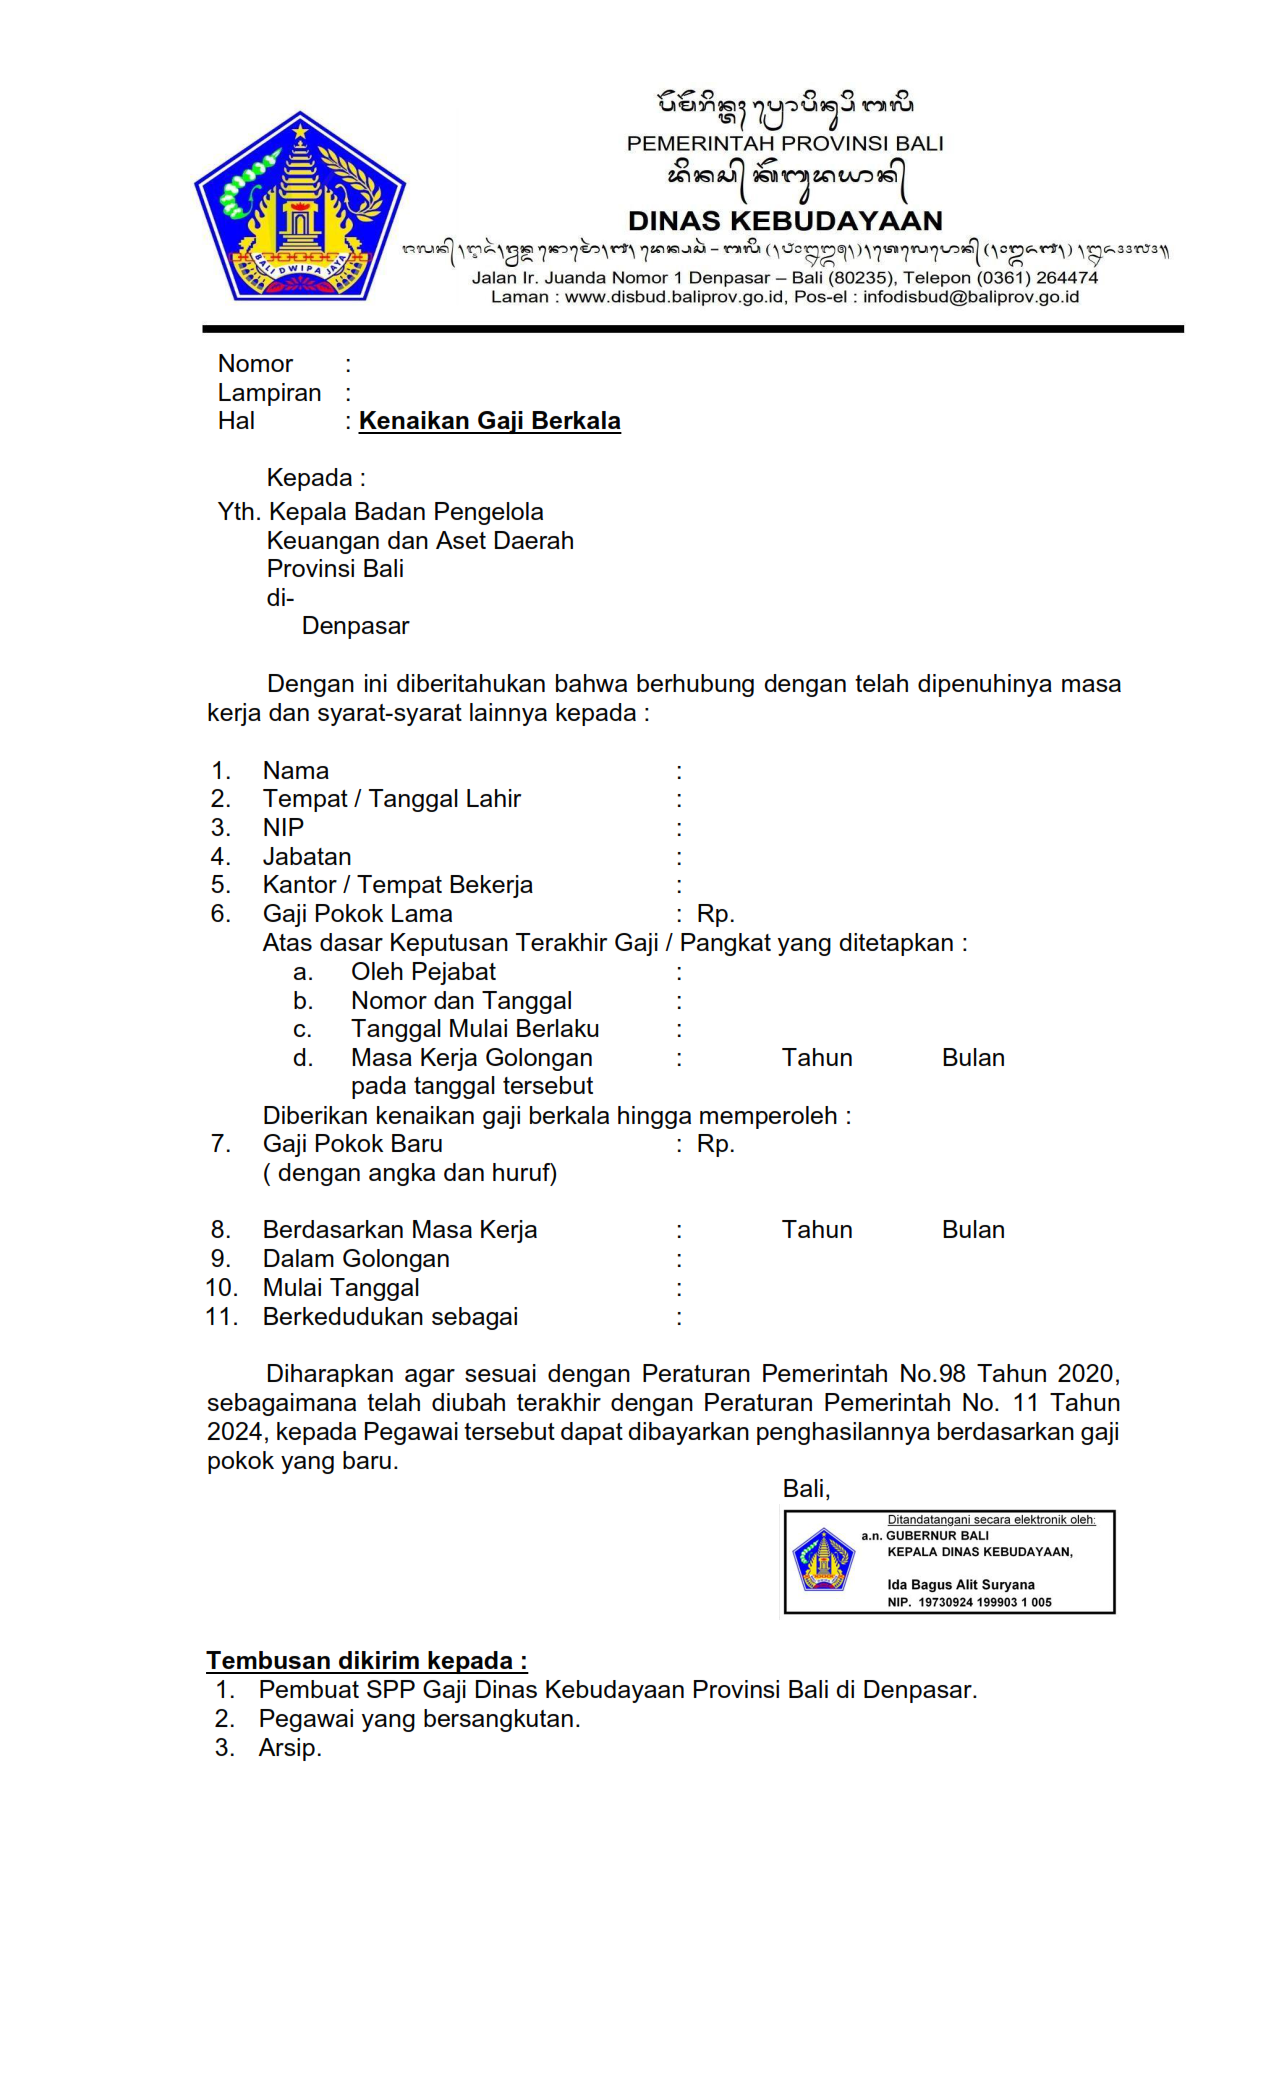
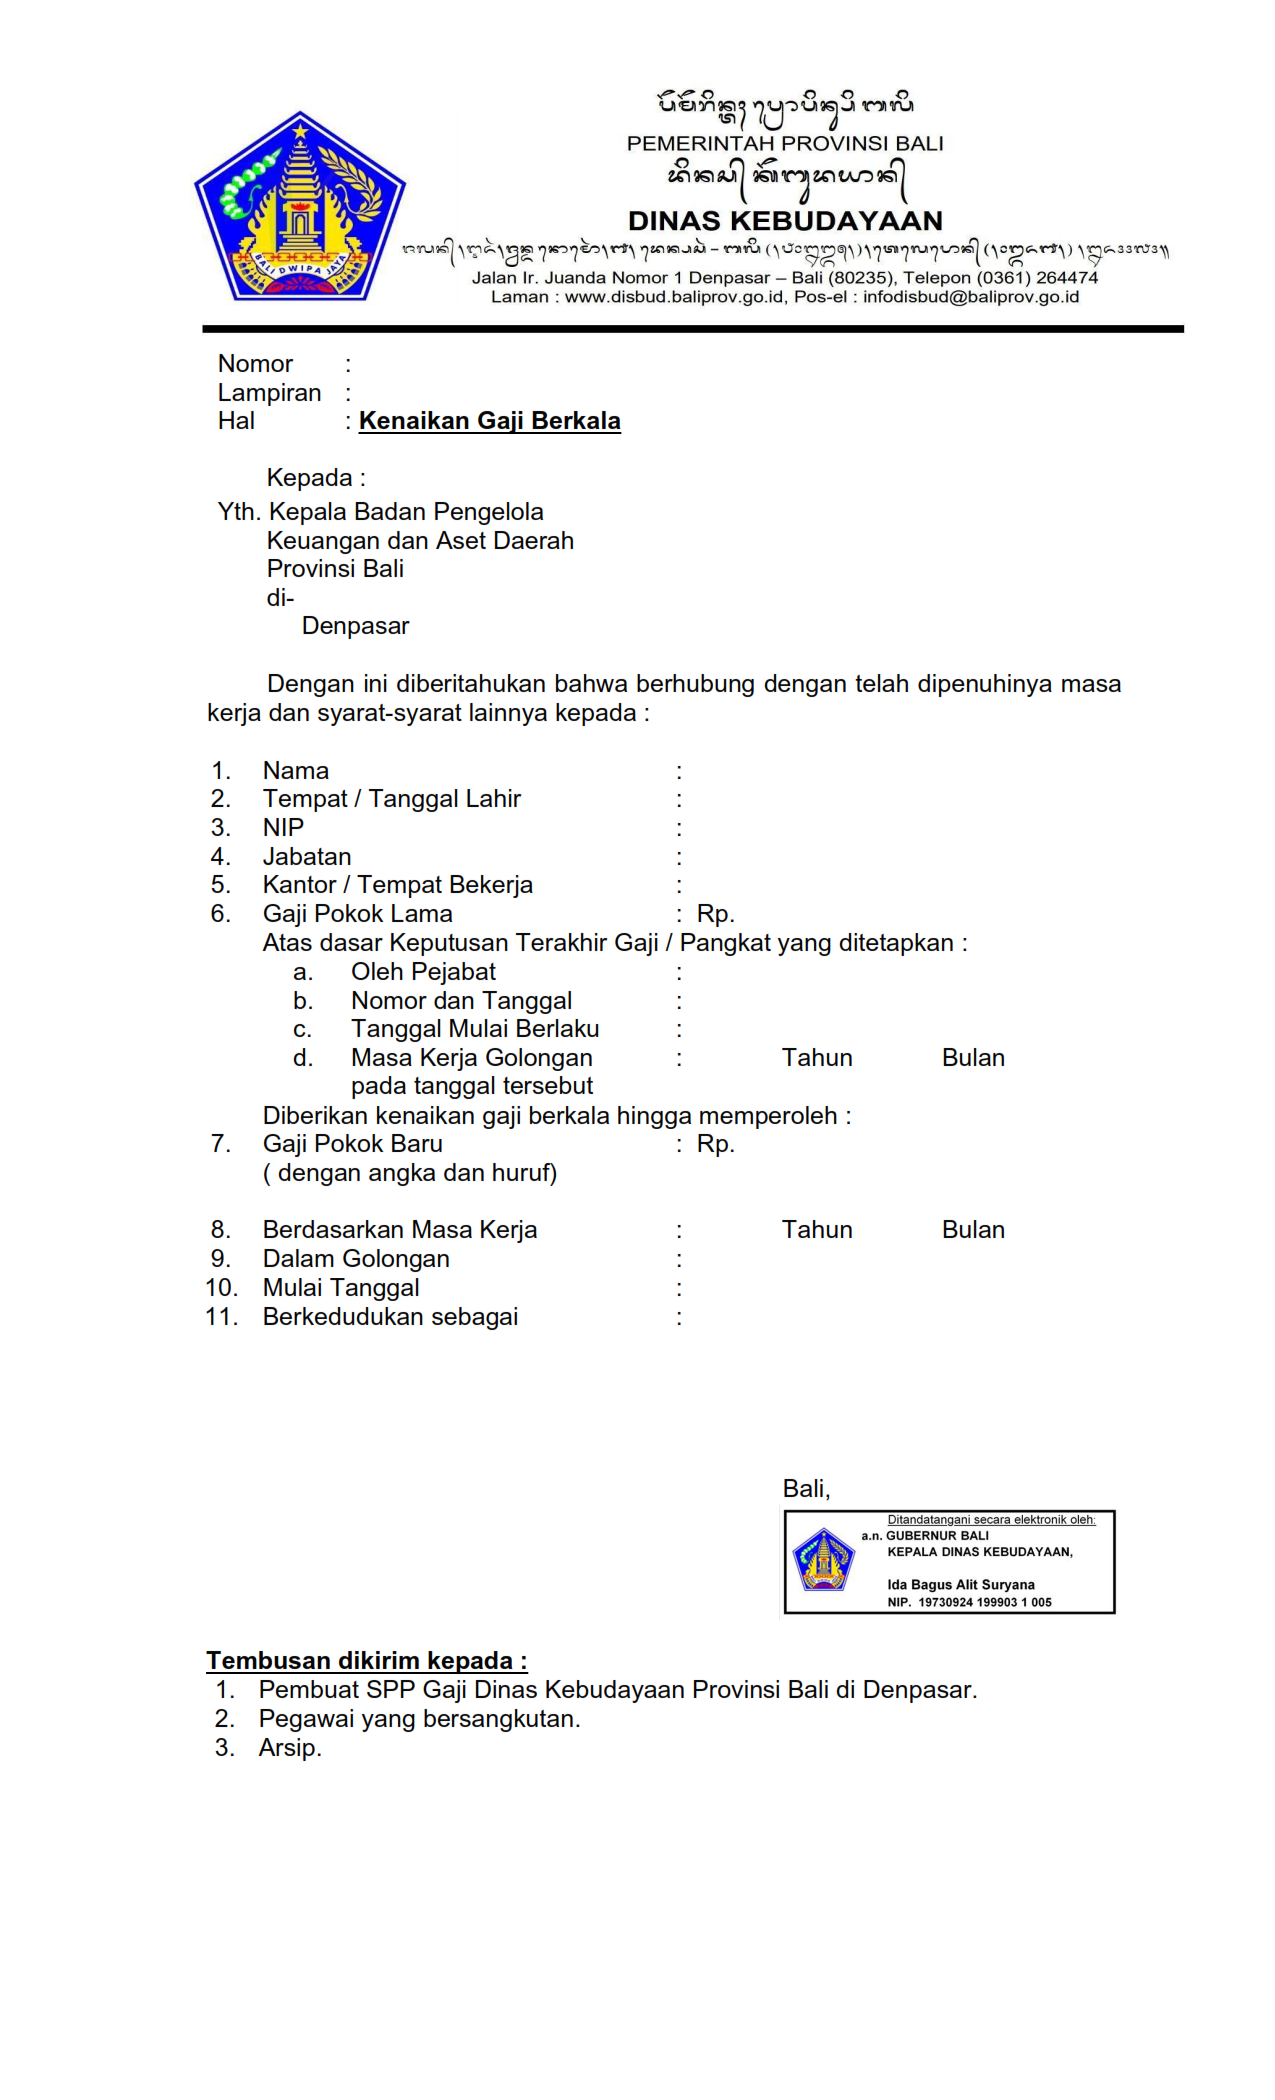
PDF

Changed region(s): [[0.1529, 0.65, 0.8871, 0.7119]]

diff --git a/resources/views/dashboard/kepegawaian/kgb/pdf-all.blade.php b/resources/views/dashboard/kepegawaian/kgb/pdf-all.blade.php
@@ -209,7 +209,7 @@
         .terbilang {
             left: 117.5mm;
             top: 187.6mm;
-            width: 90mm;
+            width: 80mm;
             white-space: normal;
             line-height: 1.05;
         }
@@ -253,6 +253,21 @@
         .berkedudukan {
             left: 117.5mm;
             top: 210.7mm;
+        }
+
+        /* =========================================================
+           PENUTUPAN
+        ========================================================= */
+
+        .penutupan {
+            left: 35mm;
+            top: 215.5mm;
+            width: 157mm;
+            white-space: normal;
+            line-height: 1.15;
+
+            text-align: justify;
+            text-indent: 10mm;
         }
 
         /* =========================================================
@@ -749,6 +764,14 @@
 
             /*
             |--------------------------------------------------------------------------
+            | PENUTUPAN
+            |--------------------------------------------------------------------------
+            */
+
+            $penutupan = trim((string) ($batch->peraturanGaji->peraturan_gaji_nomor ?? ''));
+
+            /*
+            |--------------------------------------------------------------------------
             | TERBILANG
             |--------------------------------------------------------------------------
             */
@@ -1164,6 +1187,17 @@
             @if ($berkedudukan !== '')
                 <div class="field berkedudukan">
                     {{ $berkedudukan }}
+                </div>
+            @endif
+
+            {{-- =====================================================
+                 PENUTUPAN
+            ====================================================== --}}
+
+            @if ($penutupan !== '')
+                <div class="field penutupan">
+                    Diharapkan agar sesuai dengan {{ $penutupan }},
+                    kepada Pegawai tersebut dapat dibayarkan penghasilannya berdasarkan gaji pokok yang baru.
                 </div>
             @endif
 

diff --git a/resources/views/dashboard/kepegawaian/kgb/pdf-all_tte.blade.php b/resources/views/dashboard/kepegawaian/kgb/pdf-all_tte.blade.php
@@ -208,7 +208,7 @@
             left: 117.5mm;
             top: 181.8mm;
             white-space: normal;
-            width: 90mm;
+            width: 80mm;
             line-height: 1.05;
         }
 
@@ -251,6 +251,21 @@
         .berkedudukan {
             left: 117.5mm;
             top: 204.7mm;
+        }
+
+        /* =========================================================
+           PENUTUPAN
+        ========================================================= */
+
+        .penutupan {
+            left: 34mm;
+            top: 210.5mm;
+            width: 157mm;
+            white-space: normal;
+            line-height: 1.15;
+
+            text-align: justify;
+            text-indent: 10mm;
         }
     </style>
 </head>
@@ -776,6 +791,14 @@
 
             /*
             |--------------------------------------------------------------------------
+            | PENUTUPAN
+            |--------------------------------------------------------------------------
+            */
+
+            $penutupan = trim((string) ($kgb->batch?->peraturanGaji?->peraturan_gaji_nomor ?? ''));
+
+            /*
+            |--------------------------------------------------------------------------
             | TERBILANG
             |--------------------------------------------------------------------------
             */
@@ -1175,6 +1198,17 @@
             @if ($berkedudukan !== '')
                 <div class="field berkedudukan">
                     {{ $berkedudukan }}
+                </div>
+            @endif
+
+            {{-- =====================================================
+                 PENUTUPAN
+            ====================================================== --}}
+
+            @if ($penutupan !== '')
+                <div class="field penutupan">
+                    Diharapkan agar sesuai dengan {{ $penutupan }},
+                    kepada Pegawai tersebut dapat dibayarkan penghasilannya berdasarkan gaji pokok yang baru.
                 </div>
             @endif
 

diff --git a/resources/views/dashboard/kepegawaian/kgb/pdf.blade.php b/resources/views/dashboard/kepegawaian/kgb/pdf.blade.php
@@ -216,7 +216,7 @@
             left: 117.5mm;
             top: 187.6mm;
             white-space: normal;
-            width: 90mm;
+            width: 80mm;
             line-height: 1.05;
         }
 
@@ -259,6 +259,21 @@
         .berkedudukan {
             left: 117.5mm;
             top: 210.7mm;
+        }
+
+        /* =========================================================
+           PENUTUPAN
+        ========================================================= */
+
+        .penutupan {
+            left: 35mm;
+            top: 215.5mm;
+            width: 157mm;
+            white-space: normal;
+            line-height: 1.15;
+
+            text-align: justify;
+            text-indent: 10mm;
         }
 
         /* =========================================================
@@ -843,6 +858,14 @@
         }
 
         /*
+            |--------------------------------------------------------------------------
+            | PENUTUPAN
+            |--------------------------------------------------------------------------
+            */
+
+        $penutupan = trim((string) ($batch->peraturanGaji->peraturan_gaji_nomor ?? ''));
+
+        /*
         |--------------------------------------------------------------------------
         | TERBILANG
         |--------------------------------------------------------------------------
@@ -1264,6 +1287,17 @@
         @if ($berkedudukan !== '')
             <div class="field berkedudukan">
                 {{ $berkedudukan }}
+            </div>
+        @endif
+
+        {{-- =====================================================
+                 PENUTUPAN
+            ====================================================== --}}
+
+        @if ($penutupan !== '')
+            <div class="field penutupan">
+                Diharapkan agar sesuai dengan {{ $penutupan }},
+                kepada Pegawai tersebut dapat dibayarkan penghasilannya berdasarkan gaji pokok yang baru.
             </div>
         @endif
 

diff --git a/resources/views/dashboard/kepegawaian/kgb/pdf_tte.blade.php b/resources/views/dashboard/kepegawaian/kgb/pdf_tte.blade.php
@@ -216,7 +216,7 @@
             left: 117.5mm;
             top: 181.8mm;
             white-space: normal;
-            width: 90mm;
+            width: 80mm;
             line-height: 1.05;
         }
 
@@ -259,6 +259,21 @@
         .berkedudukan {
             left: 117.5mm;
             top: 204.7mm;
+        }
+
+        /* =========================================================
+           PENUTUPAN
+        ========================================================= */
+
+        .penutupan {
+            left: 34mm;
+            top: 210.5mm;
+            width: 157mm;
+            white-space: normal;
+            line-height: 1.15;
+
+            text-align: justify;
+            text-indent: 10mm;
         }
     </style>
 </head>
@@ -815,6 +830,14 @@
         }
 
         /*
+            |--------------------------------------------------------------------------
+            | PENUTUPAN
+            |--------------------------------------------------------------------------
+            */
+
+        $penutupan = trim((string) ($kgb->batch?->peraturanGaji?->peraturan_gaji_nomor ?? ''));
+
+        /*
         |--------------------------------------------------------------------------
         | TERBILANG
         |--------------------------------------------------------------------------
@@ -1236,6 +1259,17 @@
         @if ($berkedudukan !== '')
             <div class="field berkedudukan">
                 {{ $berkedudukan }}
+            </div>
+        @endif
+
+        {{-- =====================================================
+                 PENUTUPAN
+            ====================================================== --}}
+
+        @if ($penutupan !== '')
+            <div class="field penutupan">
+                Diharapkan agar sesuai dengan {{ $penutupan }},
+                kepada Pegawai tersebut dapat dibayarkan penghasilannya berdasarkan gaji pokok yang baru.
             </div>
         @endif
 
